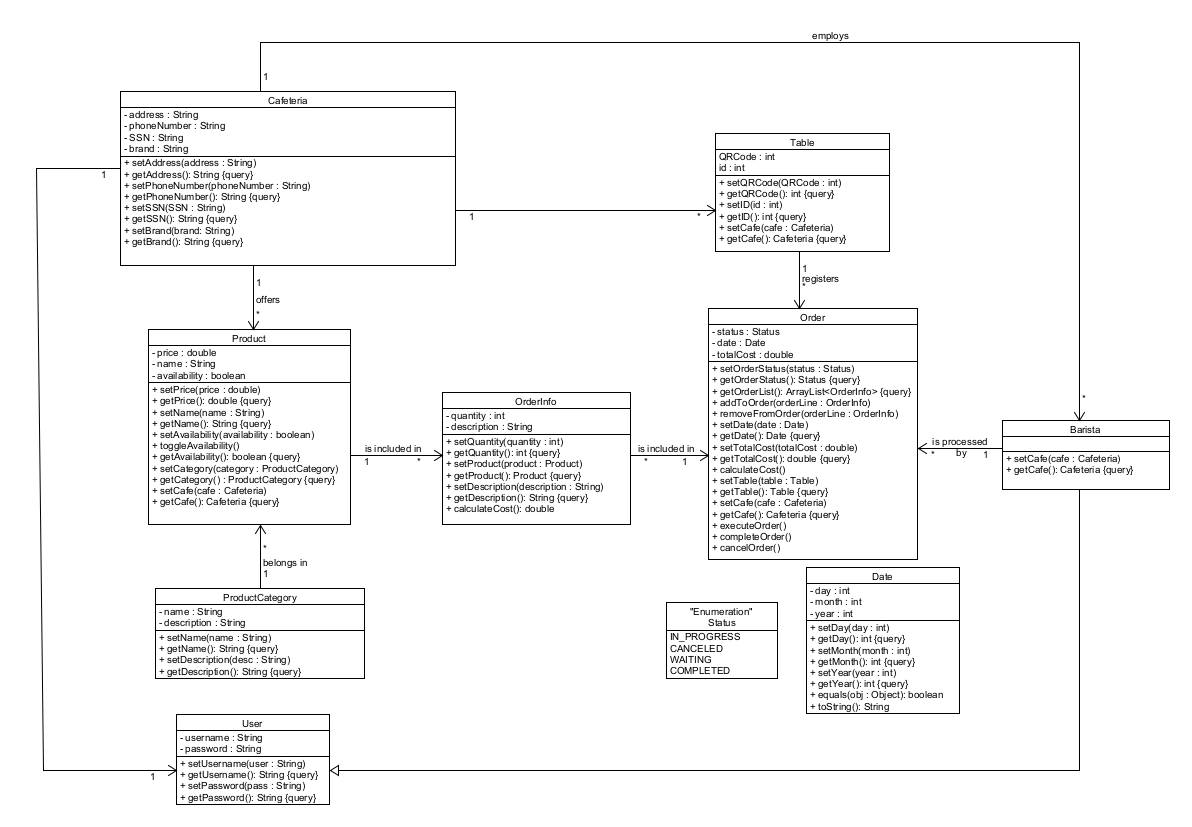
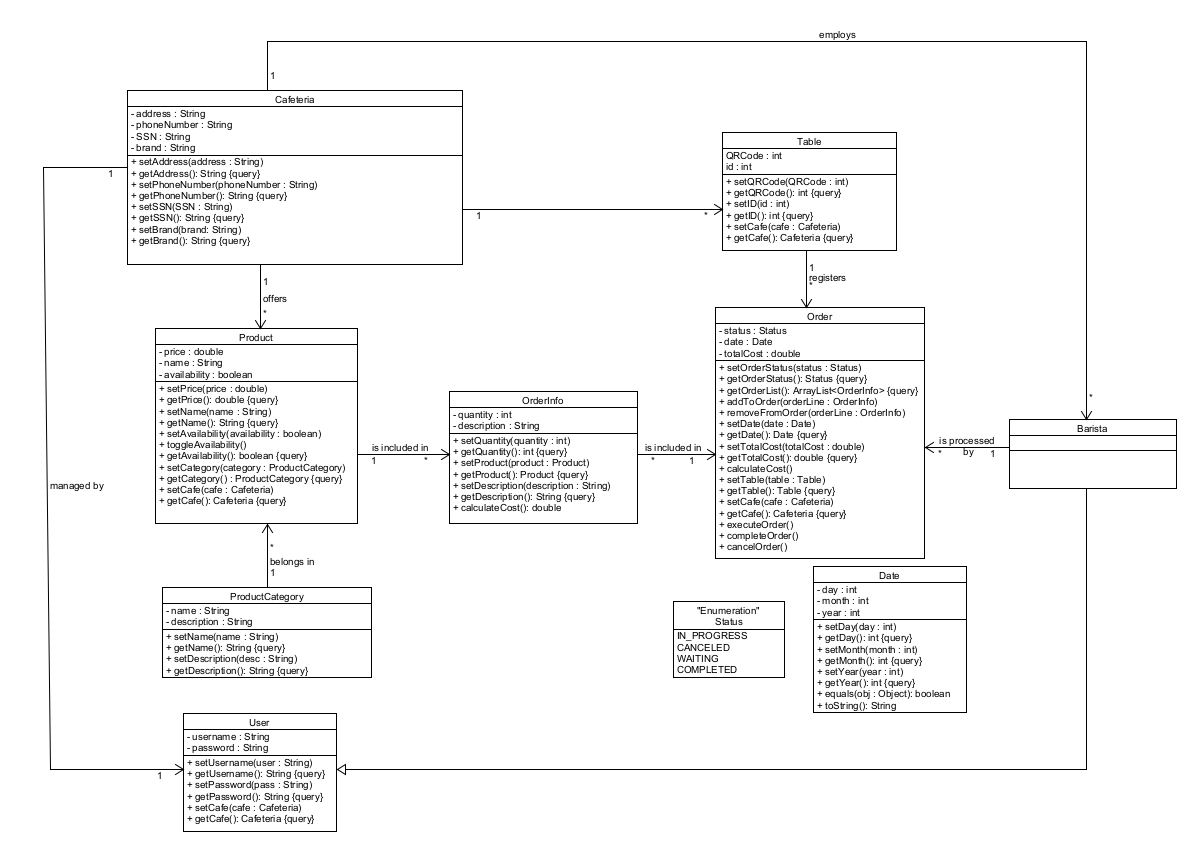
Change User and Barista classes

diff --git a/app/src/main/java/com/example/softcafeengineer/domain/Barista.java b/app/src/main/java/com/example/softcafeengineer/domain/Barista.java
@@ -2,16 +2,11 @@ package com.example.softcafeengineer.domain;
 
 public class Barista extends User
 {
-    private Cafeteria cafe;
-
     // Default constructor
     public Barista() { super(); }
 
-    public Barista(String user, String pass, Cafeteria cafe) {
+    public Barista(String user, String pass) {
         super(user, pass);
-        this.cafe = cafe;
     }
 
-    public void setCafe(Cafeteria cafe) { this.cafe = cafe; }
-    public Cafeteria getCafe() { return this.cafe; }
 }

diff --git a/app/src/main/java/com/example/softcafeengineer/domain/User.java b/app/src/main/java/com/example/softcafeengineer/domain/User.java
@@ -4,6 +4,7 @@ public class User
 {
     private String username;
     private String password;
+    private Cafeteria cafe;
 
     // Default constructor
     public User() { }
@@ -18,4 +19,7 @@ public class User
 
     public void setPassword(String pass) { this.password = pass; }
     public String getPassword(){ return this.password; }
+
+    public void setCafe(Cafeteria cafe) { this.cafe = cafe; }
+    public Cafeteria getCafe() { return this.cafe; }
 }

diff --git a/app/src/test/java/com/example/softcafeengineer/domain/BaristaTest.java b/app/src/test/java/com/example/softcafeengineer/domain/BaristaTest.java
@@ -23,10 +23,9 @@ public class BaristaTest
     @Test
     public void constructor_with_args() {
         Cafeteria cafe = new Cafeteria();
-        Barista barista = new Barista("User", "1234", cafe);
+        Barista barista = new Barista("User", "1234");
 
         Assert.assertEquals("User", barista.getUsername());
         Assert.assertEquals("1234", barista.getPassword());
-        Assert.assertEquals(cafe, barista.getCafe());
     }
 }

diff --git a/app/src/test/java/com/example/softcafeengineer/domain/UserTest.java b/app/src/test/java/com/example/softcafeengineer/domain/UserTest.java
@@ -14,6 +14,10 @@ public class UserTest
 
         user.setPassword("1234");
         Assert.assertEquals("1234", user.getPassword());
+
+        Cafeteria cafe = new Cafeteria();
+        user.setCafe(cafe);
+        Assert.assertEquals(cafe, user.getCafe());
     }
 
     @Test

diff --git a/app/src/main/java/com/example/softcafeengineer/memorydao/BaristaDAOMemory.java b/app/src/main/java/com/example/softcafeengineer/memorydao/BaristaDAOMemory.java
@@ -1,0 +1,2 @@
+package com.example.softcafeengineer.memorydao;public class BaristaDAOMemory {
+}

diff --git a/app/src/main/java/com/example/softcafeengineer/dao/BaristaDAO.java b/app/src/main/java/com/example/softcafeengineer/dao/BaristaDAO.java
@@ -1,0 +1,2 @@
+package com.example.softcafeengineer.dao;public interface BaristaDAO {
+}
